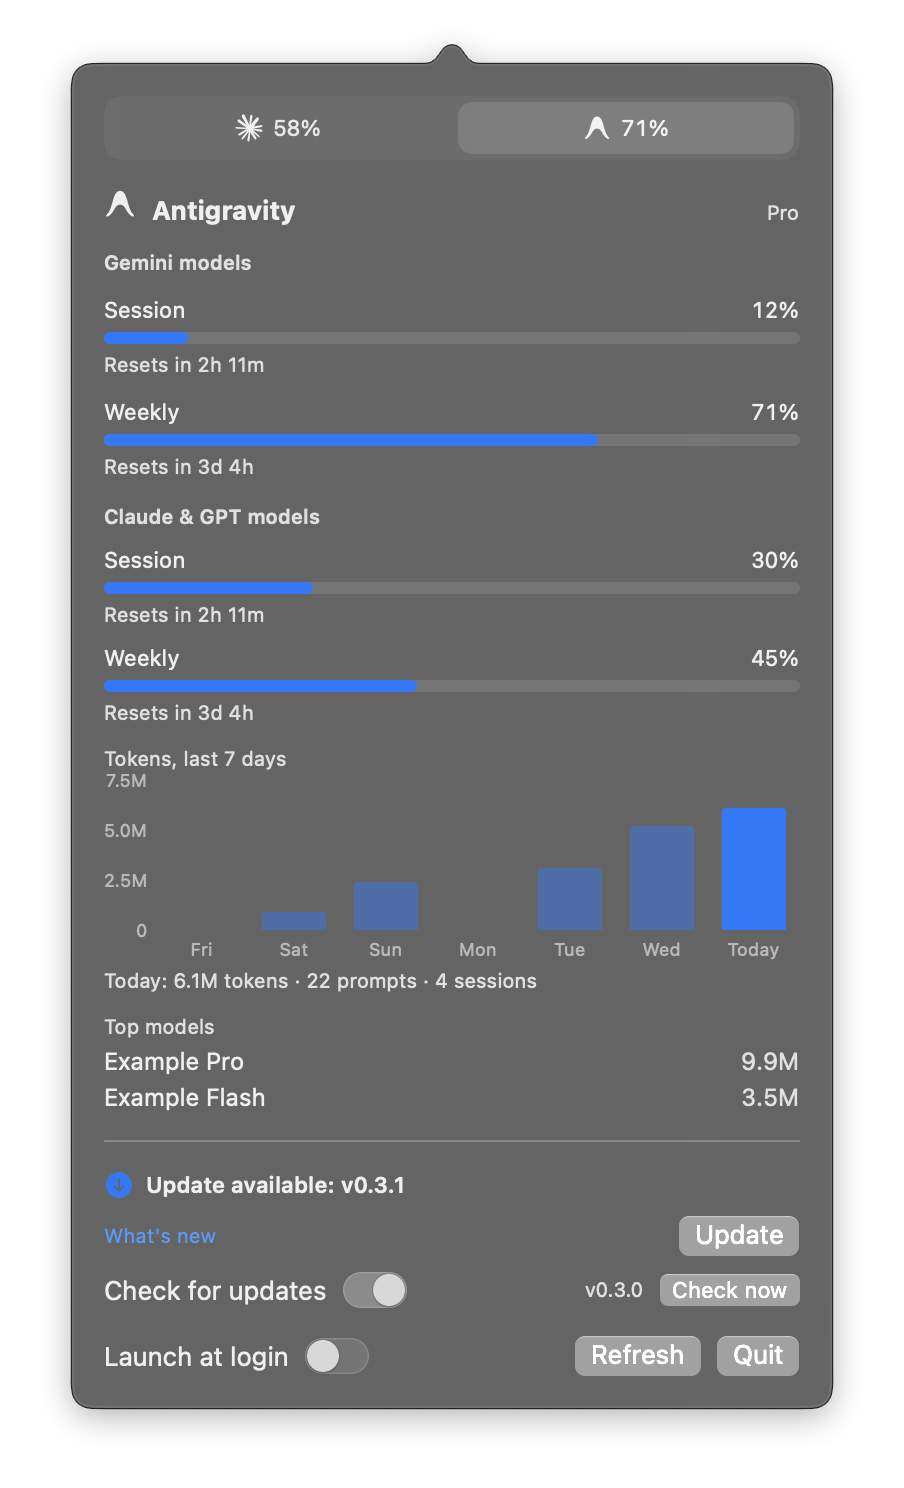
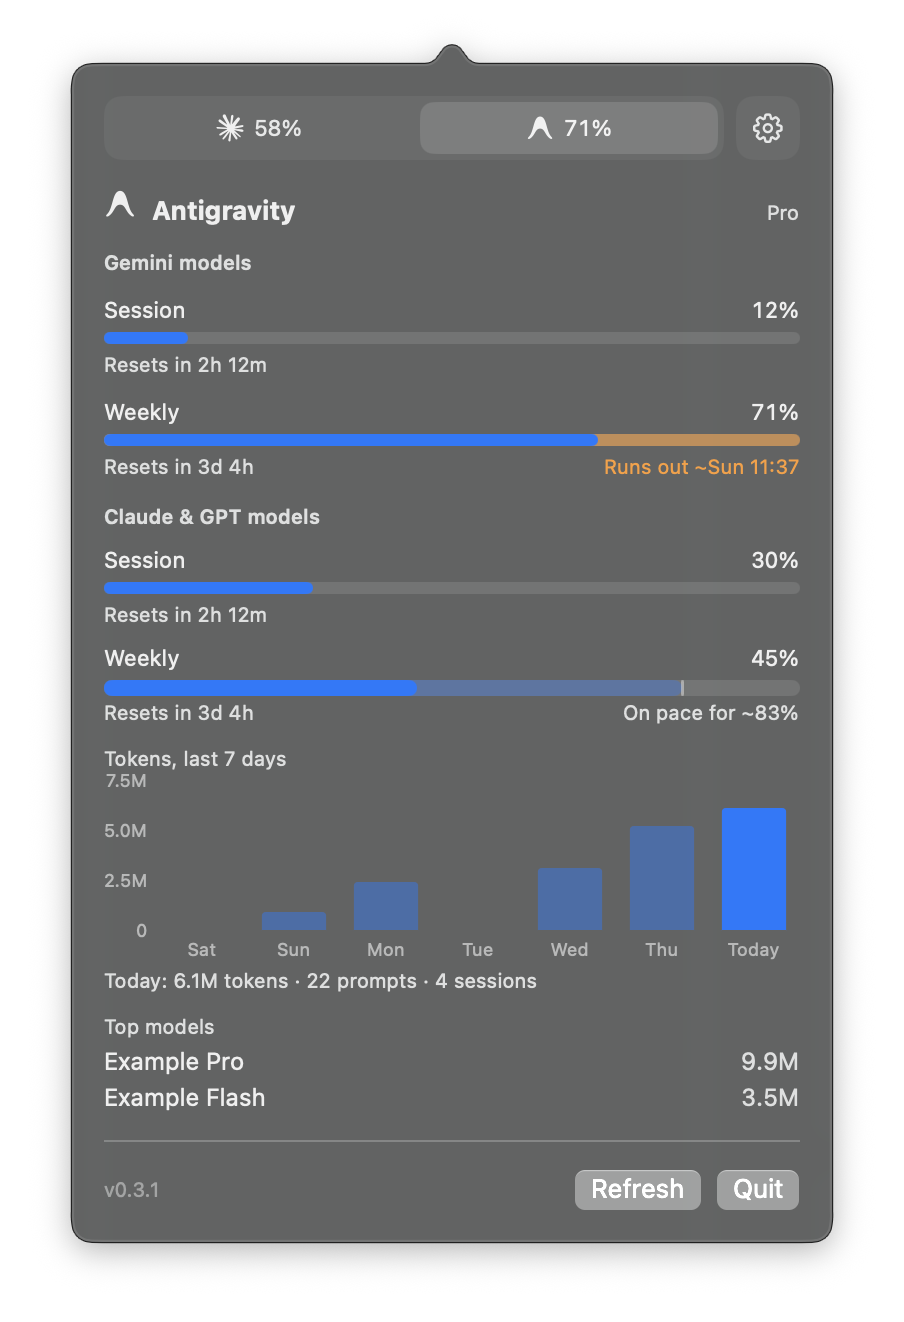
README: 0.3.1 screenshots, in-panel Settings, and weekly pace projection

Changed region(s): [[0.0619, 0.031, 0.9292, 0.9614], [0.4956, 0.7133, 0.5885, 0.7443]]

diff --git a/README.md b/README.md
@@ -29,17 +29,21 @@
 </p>
 
 <p align="center">
-  <img src="docs/screenshot.png" width="420" alt="Agent Usage Bar popover showing Antigravity with Gemini models and Claude &amp; GPT models quota meters, a 7-day token bar chart, top models, an Update available banner with an Update button, Check for updates, and Launch at login">
+  <img src="docs/screenshot.png" width="420" alt="Agent Usage Bar popover showing Antigravity with Gemini models and Claude &amp; GPT models quota meters, projected weekly pace indicators, a 7-day token bar chart, top models, and the Settings gear button in the header">
 </p>
 
 > [!NOTE]
 > **Unofficial.** This app reads undocumented endpoints (`api.anthropic.com/api/oauth/usage`, Google `cloudcode-pa` `v1internal`, and the `/quota` output of `agy`) that may break whenever those CLIs update. Not affiliated with Anthropic or Google.
 
-## What's new in 0.3.0
+## What's new in 0.3.1
 
-- **In-app self-updates.** Checks GitHub releases on launch and once a day (turn off anytime with **Check for updates**). Nothing installs silently: pressing **Update** resolves the release tag's commit, asks you to confirm before running `build.sh`, verifies `--version` and `--selftest`, keeps the previous version as a backup, and rolls back automatically if the new build fails to start.
-- **Antigravity's second quota pool.** **Claude & GPT models** now appears under its own grouped section alongside **Gemini models**, with separate 5-hour and weekly meters (showing *Not used yet* until active). The menu bar number, popover tabs, and 90% red alert continue to track Gemini limits only.
-- **Original macOS app icon.** A new gauge-and-sparkle icon (`Resources/AppIcon.png`), built into `AppIcon.icns` by `build.sh`.
+- **In-panel Settings.** Click the gear button in the popover header (or press ⌘,) to toggle individual usage bars on or off — hiding a bar hides it from the popover, switcher, and menu bar, and hiding all bars for an agent hides that agent cleanly. **Launch at login** and **Check for updates** now live under **General** in Settings, keeping the main tab focused on usage.
+- **Projected weekly pace.** Weekly meters show a translucent pace continuation and tick (*On pace for ~83%*) or a warm amber warning (*Runs out ~Sun 11:37*) beside the reset countdown, blending week-to-date pace with the last 48 hours of a local sample log (`~/Library/Application Support/AgentUsageBar/history.json`, never used in demo mode). Toggleable in Settings.
+- **Updater, CLI, and pool hardening.** `--help` and `-h` print usage without launching the GUI; the self-updater resolves symlinks on the installed bundle and backup folder, handles dangling helper symlinks, and reads staged `Info.plist` files uncached; the Antigravity collector preserves distinct non-Gemini pool names and unifies bucket classification.
+
+<p align="center">
+  <img src="docs/settings.png" width="380" alt="Agent Usage Bar Settings view showing Usage bars toggles for Claude and Antigravity, the Projected weekly pace toggle, and General settings for Launch at login and Check for updates">
+</p>
 
 See [CHANGELOG.md](CHANGELOG.md) for the full release history.
 
@@ -72,7 +76,7 @@ Pressing **Update and Restart** downloads that release's source into `~/Library/
 - **Trust:** Updating builds and runs code from the repository, the same as running `./build.sh` yourself. Only update if you trust the repository you built from (forks update from their own repo). Downloads use HTTPS only and ignore your own git configuration (URL rewrites, hooks, fsmonitor, credential helpers). Checking signed tags is not done today.
 - **Safety & rollback:** Only one update can run at a time, and the swap refuses to proceed if another copy of the installed app is still running. The version you replaced is kept at `~/Library/Application Support/AgentUsageBar/previous/AgentUsageBar.app` (outside `~/Applications`). The backup copy cannot update itself or take over Launch at login. If the new app fails to stay running, the swap helper restores the backup automatically. To roll back manually, quit the app, move the backup bundle over `~/Applications/AgentUsageBar.app`, and open it.
 - **Post-update housekeeping:** After an update, the app re-enables **Launch at login** if you had it on and macOS dropped it, and clears the checkout's build cache (`src/App/.build`).
-- **Turn checks off:** Switch off **Check for updates** in the popover. **Check now** still works on demand.
+- **Turn checks off:** Switch off **Check for updates** in **Settings** (gear icon). **Check now** still works on demand.
 - **By hand:** `git pull && ./build.sh` still works, then quit and reopen the app.
 
 See [CHANGELOG.md](CHANGELOG.md) for what changed. Run `~/Applications/AgentUsageBar.app/Contents/MacOS/AgentUsageBar --version` to print the installed version.
@@ -84,9 +88,9 @@ See [CHANGELOG.md](CHANGELOG.md) for what changed. Run `~/Applications/AgentUsag
 
 On first run macOS asks whether `security` may access the Keychain item. Choose **Always Allow** so it does not prompt on every refresh.
 
-- **Menu bar:** Displays only the agents configured (`ready`) on this Mac side by side — each logo with its **5-hour session** percentage used (for example, Claude `34%` and Antigravity `12%`; a Claude-only Mac shows only Claude). If none is ready, it shows one neutral logo with `–`. A session number turns **red at 90% or more**.
-- **Popover:** Click anywhere on the menu bar label to open the popover (opens on the busiest ready agent; switcher tabs show each ready provider's highest headline limit, plus tabs for expired sign-ins with sign-in instructions; with nothing ready it shows sign-in help for every provider). Shows 5-hour and weekly meters with live reset countdowns, Antigravity's grouped **Claude & GPT models** section, a 7-day token chart, and top models.
-- **Refresh & startup:** Refreshes every **15 minutes** (every **3 minutes** when any headline limit reaches **90% or more**). **Launch at login** is on by default and can be toggled in the popover.
+- **Menu bar:** Displays only the agents configured (`ready`) on this Mac side by side, following the usage bars left enabled in **Settings** — each logo with its **5-hour session** percentage used (for example, Claude `34%` and Antigravity `12%`; a Claude-only Mac shows only Claude). If none is ready, it shows one neutral logo with `–` (falling back to a neutral gauge icon if every bar is hidden). A session number turns **red at 90% or more**.
+- **Popover:** Click anywhere on the menu bar label to open the popover (opens on the busiest ready agent; switcher tabs show each ready provider's highest headline limit, plus tabs for expired sign-ins with sign-in instructions; with nothing ready it shows sign-in help for every provider). Shows 5-hour and weekly meters with live reset countdowns and weekly pace projections, Antigravity's grouped **Claude & GPT models** section, a 7-day token chart, top models, and a header gear button for **Settings**.
+- **Refresh & startup:** Refreshes every **15 minutes** (every **3 minutes** when any headline limit reaches **90% or more**). **Launch at login** is on by default and can be toggled in **Settings**.
 
 ## Icons
 
@@ -102,7 +106,7 @@ Claude and Antigravity monochrome template icons ship as defaults (see [Trademar
 
 Claude and the Claude logo are trademarks of Anthropic, PBC. Antigravity and its logo are trademarks of Google LLC. They are used only to identify the services this app reads usage from. This project is not affiliated with or endorsed by either company, and the logo files are not covered by the MIT licence.
 
-## Settings (environment variables)
+## Environment variables
 
 - `AGENT_USAGE_DIR`: Where usage JSON files are written and read (default: `~/.local/state/agent-usage-bar/usage`). Set it to `~/.local/state/omarchy/agents/usage` for Omarchy-schema compatibility.
 - `XDG_STATE_HOME`, `XDG_CACHE_HOME`: Override the default state and cache locations.
@@ -122,13 +126,14 @@ Or point `AGENT_USAGE_DIR=$PWD/docs/demo` (any folder named `demo` never runs co
 
 ```bash
 swift build --package-path App && App/.build/debug/AgentUsageBar --selftest
+python3 -m unittest discover -s tests -v
 collectors/agent-usage-claude --print
 collectors/agent-usage-agy --print
 ```
 
 ## Uninstall
 
-Turn off **Launch at login** in the popover first, then:
+Turn off **Launch at login** in **Settings** first, then:
 
 ```bash
 osascript -e 'quit app "AgentUsageBar"'
